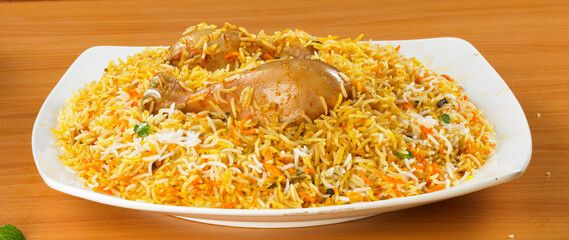
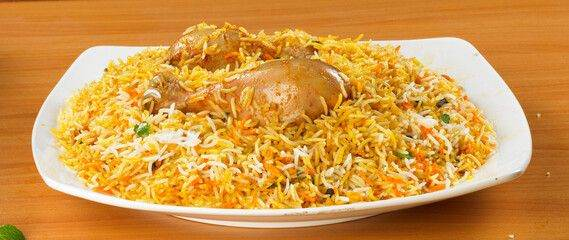
images fixed

diff --git a/index.html b/index.html
@@ -57,8 +57,10 @@ content="Authentic homemade Karachi-style Chicken Biryani every Friday, plus a 6
 
 <link rel="preconnect" href="https://fonts.gstatic.com" crossorigin>
 
-<link rel="preload" as="image" fetchpriority="high"
-href="https://images.unsplash.com/photo-1589302168068-964664d93dc0?auto=format&fit=crop&w=1800&q=45">
+<link rel="preload" as="image" fetchpriority="high" media="(max-width:768px)"
+href="https://images.unsplash.com/photo-1589302168068-964664d93dc0?fm=webp&fit=crop&w=860&q=42">
+<link rel="preload" as="image" fetchpriority="high" media="(min-width:769px)"
+href="https://images.unsplash.com/photo-1589302168068-964664d93dc0?fm=webp&fit=crop&w=1800&q=40">
 
 <link rel="preload" as="style" href="https://fonts.googleapis.com/css2?family=Poppins:wght@300;400;500;600;700;800&display=swap" onload="this.onload=null;this.rel='stylesheet'">
 <link rel="preload" as="style" href="https://fonts.googleapis.com/icon?family=Material+Icons&display=swap" onload="this.onload=null;this.rel='stylesheet'">
@@ -384,7 +386,7 @@ background:
 
 linear-gradient(rgba(0,0,0,.55),rgba(0,0,0,.55)),
 
-url("https://images.unsplash.com/photo-1589302168068-964664d93dc0?auto=format&fit=crop&w=1800&q=45");
+url("https://images.unsplash.com/photo-1589302168068-964664d93dc0?fm=webp&fit=crop&w=1800&q=40");
 
 background-size:cover;
 
@@ -394,6 +396,16 @@ color:white;
 
 text-align:center;
 
+}
+
+@media(max-width:768px){
+.hero{
+background:
+linear-gradient(rgba(0,0,0,.55),rgba(0,0,0,.55)),
+url("https://images.unsplash.com/photo-1589302168068-964664d93dc0?fm=webp&fit=crop&w=860&q=42");
+background-size:cover;
+background-position:center;
+}
 }
 
 .hero-content{
@@ -761,6 +773,18 @@ height:46px;
 max-width:100%;
 
 object-fit:contain;
+
+}
+
+#parallaxCta{
+
+background-image:
+
+linear-gradient(rgba(46,125,50,.8),rgba(46,125,50,.8)),
+
+url('https://images.unsplash.com/photo-1544025162-d76694265947?auto=format&fit=crop&w=900&q=50') !important;
+
+background-attachment:scroll !important;
 
 }
 
@@ -1253,8 +1277,8 @@ margin-top:18px;
 <div class="logo">
 
 <picture>
-<source srcset="./images/logo.webp" type="image/webp">
-<img src="./images/logo.png" alt="Karachi Jumma Biryani logo" width="826" height="152" fetchpriority="high">
+<source srcset="./images/logo-sm.webp 1x, ./images/logo.webp 2x" type="image/webp">
+<img src="./images/logo.png" srcset="./images/logo-sm.png 1x, ./images/logo.png 2x" alt="Karachi Jumma Biryani logo" width="826" height="152" fetchpriority="high">
 </picture>
 
 </div>
@@ -1378,7 +1402,13 @@ Every grain of rice is infused with traditional spices, tender chicken, potatoes
 
 <div class="card" data-aos="fade-up" data-aos-delay="150">
 
-<img src="https://images.unsplash.com/photo-1512058564366-18510be2db19?auto=format&fit=crop&w=722&h=480&q=55" alt="Fresh premium ingredients used in Karachi Jumma Biryani recipes" loading="lazy" width="722" height="480">
+<img src="https://images.unsplash.com/photo-1512058564366-18510be2db19?auto=format&fit=crop&w=760&h=480&q=55"
+srcset="https://images.unsplash.com/photo-1512058564366-18510be2db19?auto=format&fit=crop&w=328&h=240&q=60 328w,
+https://images.unsplash.com/photo-1512058564366-18510be2db19?auto=format&fit=crop&w=380&h=240&q=60 380w,
+https://images.unsplash.com/photo-1512058564366-18510be2db19?auto=format&fit=crop&w=656&h=480&q=55 656w,
+https://images.unsplash.com/photo-1512058564366-18510be2db19?auto=format&fit=crop&w=760&h=480&q=55 760w"
+sizes="(max-width:768px) 328px, 380px"
+alt="Fresh premium ingredients used in Karachi Jumma Biryani recipes" loading="lazy" width="722" height="480">
 
 <div class="card-content">
 
@@ -1401,8 +1431,8 @@ Fresh vegetables, premium basmati rice, halal meat, aromatic herbs and hand-sele
 <div class="card" data-aos="fade-up" data-aos-delay="300">
 
 <picture>
-<source srcset="./images/card-family.webp" type="image/webp">
-<img src="./images/card-family.jpg" alt="Family enjoying a homemade Karachi Jumma Biryani meal together" loading="lazy" width="840" height="480">
+<source srcset="./images/card-family-sm.webp 1x, ./images/card-family.webp 2x" type="image/webp">
+<img src="./images/card-family.jpg" srcset="./images/card-family-sm.jpg 1x, ./images/card-family.jpg 2x" alt="Family enjoying a homemade Karachi Jumma Biryani meal together" loading="lazy" width="840" height="480">
 </picture>
 
 <div class="card-content">
@@ -1450,8 +1480,8 @@ Freshly cooked every Friday. Limited quantity. Pre-order before Thursday evening
 <div class="card" data-aos="zoom-in">
 
 <picture>
-<source srcset="./images/chick-biryani.webp" type="image/webp">
-<img src="./images/chick-biryani.jpg" alt="Karachi Chicken Biryani with basmati rice, potato and homemade masala" loading="lazy" width="900" height="514">
+<source srcset="./images/chick-biryani.webp 900w, ./images/chick-biryani-lg.webp 1400w" sizes="(max-width:768px) 328px, 1200px" type="image/webp">
+<img src="./images/chick-biryani.jpg" srcset="./images/chick-biryani.jpg 900w, ./images/chick-biryani-lg.jpg 1400w" sizes="(max-width:768px) 328px, 1200px" alt="Karachi Chicken Biryani with basmati rice, potato and homemade masala" loading="lazy" width="900" height="514">
 </picture>
 
 <div class="card-content">
@@ -1608,13 +1638,13 @@ Simply message us on WhatsApp and your delicious homemade meal will be prepared 
 <!-- PARALLAX CTA -->
 <!-- ========================= -->
 
-<section style="
+<section id="parallaxCta" style="
 
 background:
 
 linear-gradient(rgba(46,125,50,.8),rgba(46,125,50,.8)),
 
-url('https://images.unsplash.com/photo-1544025162-d76694265947?auto=format&fit=crop&w=1800&q=80');
+url('https://images.unsplash.com/photo-1544025162-d76694265947?auto=format&fit=crop&w=1800&q=60');
 
 background-size:cover;
 
